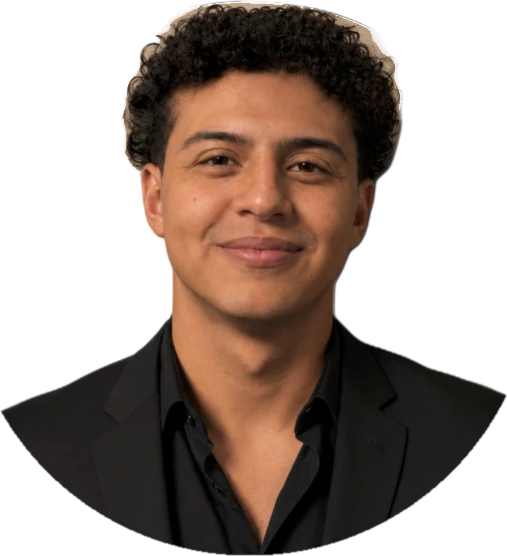
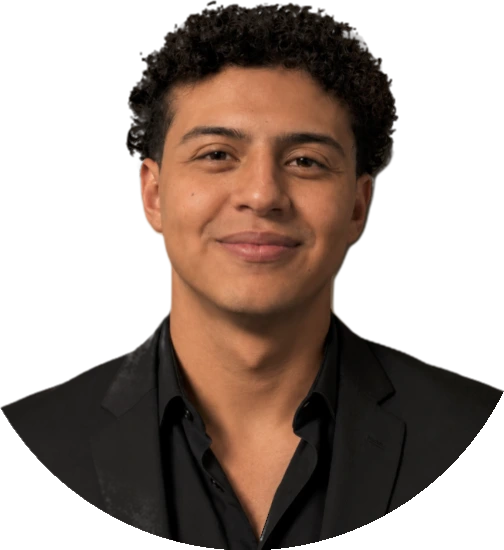
Limpiar bordes beige de la foto de perfil
Claude-Session: https://claude.ai/code/session_01Et2yTYTSx4VJ4TcgUbPUJL

diff --git a/index.html b/index.html
@@ -378,7 +378,7 @@
         <span class="ring ring-2" aria-hidden="true"></span>
         <div class="disc">
           <span class="initials" aria-hidden="true">KS</span>
-          <img src="assets/kevin.webp" alt="Kevin Josué Salazar Guevara" width="507" height="556" onload="this.previousElementSibling.remove()" onerror="this.remove()">
+          <img src="assets/kevin.webp" alt="Kevin Josué Salazar Guevara" width="504" height="550" onload="this.previousElementSibling.remove()" onerror="this.remove()">
         </div>
       </div>
       <div class="portrait-meta">
